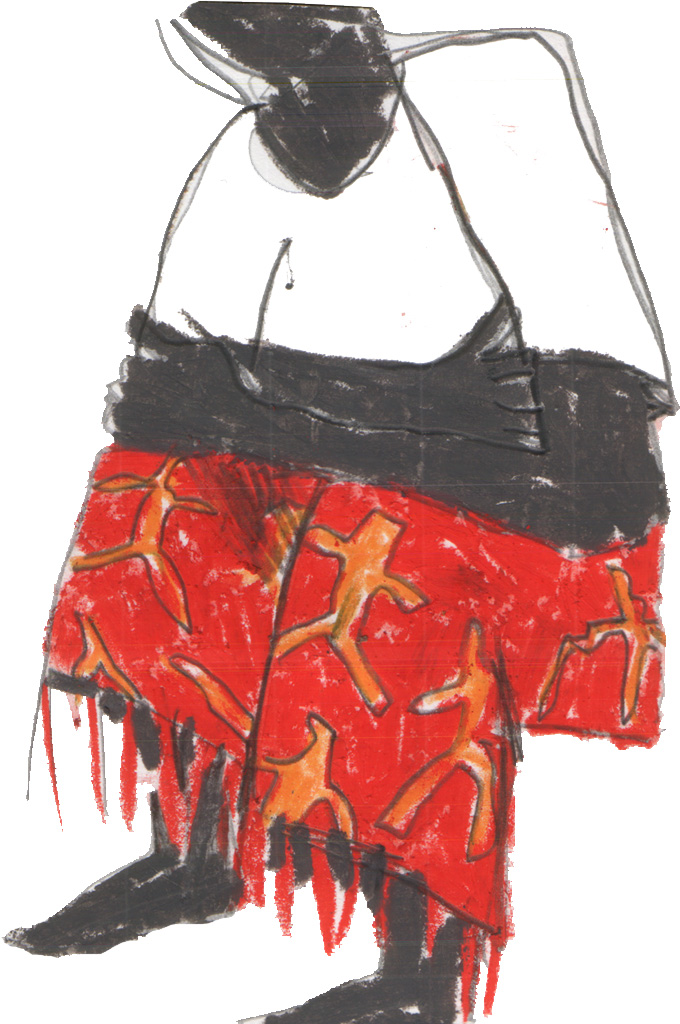
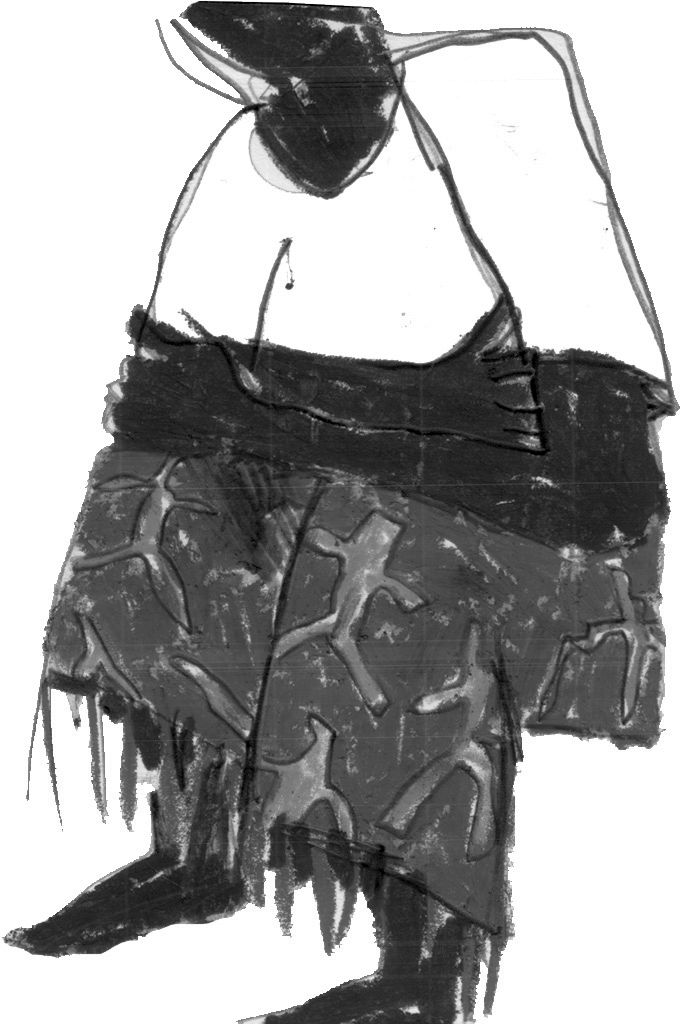
autori

diff --git a/stranice/autori-ilustracija.html b/stranice/autori-ilustracija.html
@@ -26,9 +26,9 @@
 <p><strong>Ilija Zipevski</strong><br><a href="mladi-filozof-je-najzad-osećao.html">Mladi filozof je najzad osećao</a></p>
 <p><strong>Karotholik</strong><br><a href="mladi-filozof-je-često-moj-gost.html">Mladi filozof je često moj gost</a></p>
 <p><strong>Miho</strong><br><a href="o-njemu.html">O njemu</a><br><a href="mladi-filozof-je-previše-razmišljao.html">Mladi filozof je previše razmišljao</a></p>
-<p><strong>Nataša Kljajčin</strong><br><a href="naslovna.html">Naslovna</a><br><a href="mladi-filozof-se-pitao-da-li-postoji.html">Mladi filozof se pitao da li postoji</a><br><a href="mladi-filozof-je-ostao-sam.html">Mladi filozof je ostao sam</a><br><a href="mesec-je-noćas-lajao-na-mladog-filozofa.html">Mesec je noćas lajao na mladog filozofa</a></p>
+<p><strong>Lanus art</strong><br><a href="naslovna.html">Naslovna</a><br><a href="mladi-filozof-se-pitao-da-li-postoji.html">Mladi filozof se pitao da li postoji</a><br><a href="mladi-filozof-je-ostao-sam.html">Mladi filozof je ostao sam</a><br><a href="mesec-je-noćas-lajao-na-mladog-filozofa.html">Mesec je noćas lajao na mladog filozofa</a></p>
 <p><strong>Stela</strong><br><a href="njegova-najveća-tajna.html">Njegova najveća tajna</a><br><a href="mladi-filozof-je-gledao-sunce.html">Mladi filozof je gledao sunce</a></p>
-<p><strong>Laganić</strong><br><a href="mladi-filozof-nije-hteo-da-odraste.html">Mladi filozof nije hteo da odraste</a><br><a href="mladi-filozof-je-upoznao-duha-vremena.html">Mladi filozof je upoznao duha vremena</a><br><a href="mladi-filozof-je-sanjao-da-bude-slobodan.html">Mladi filozof je sanjao da bude slobodan</a><br><a href="mladi-filozof-je-ubrao-cvet.html">Mladi filozof je ubrao cvet</a><br><a href="mladom-filozofu-se-spava.html">Mladom filozofu se spava</a></p>
+<p><strong>Shele_libre</strong><br><a href="mladi-filozof-nije-hteo-da-odraste.html">Mladi filozof nije hteo da odraste</a><br><a href="mladi-filozof-je-upoznao-duha-vremena.html">Mladi filozof je upoznao duha vremena</a><br><a href="mladi-filozof-je-sanjao-da-bude-slobodan.html">Mladi filozof je sanjao da bude slobodan</a><br><a href="mladi-filozof-je-ubrao-cvet.html">Mladi filozof je ubrao cvet</a><br><a href="mladom-filozofu-se-spava.html">Mladom filozofu se spava</a></p>
 <p><strong>Uroš Pejčić</strong><br><a href="zahvalnica.html">Zahvalnica</a><br><a href="mladi-filozof-je-bežao-od-ljudi.html">Mladi filozof je bežao od ljudi</a><br><a href="mladi-filozof-je-povraćao-bol.html">Mladi filozof je povraćao bol</a><br><a href="mladi-filozof-je-bio-zaljubljen-u-sebe.html">Mladi filozof je bio zaljubljen u sebe</a></p>
 <p><strong>Vlajcula</strong><br><a href="mladi-filozof-je-tražio-osećanja.html">Mladi filozof je tražio osećanja</a><br><a href="mladi-filozof-je-ubijao-misao.html">Mladi filozof je ubijao misao</a></p>
     </div>

diff --git a/stranice/mladi-filozof-je-previše-razmišljao.html b/stranice/mladi-filozof-je-previše-razmišljao.html
@@ -27,7 +27,7 @@
 <p>Bilo mu je lepo.</p>
     </div>
     <figure class="story-image">
-      <img src="../crtezi/mladi-filozof-previse-razmislja-miho.jpg" alt="Mladi filozof je previše razmišljao">
+      <img src="../crtezi/mladi-filozof-previse-razmislja-miho.png" alt="Mladi filozof je previše razmišljao">
     </figure>
   </article>
   <nav class="story-navigation">
